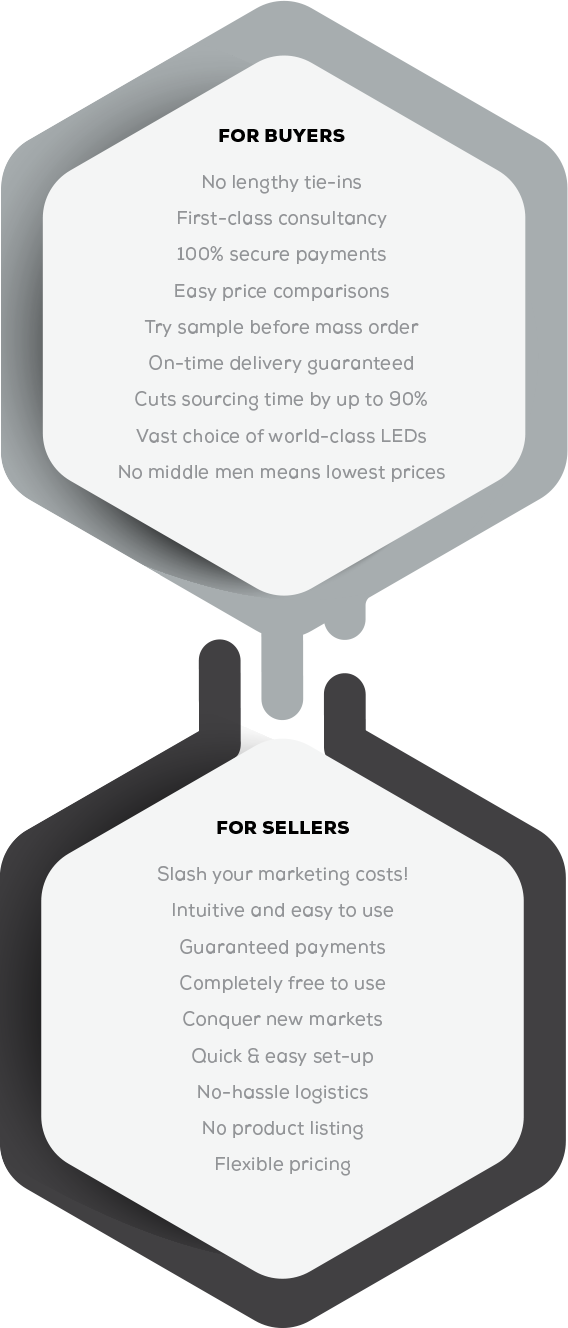
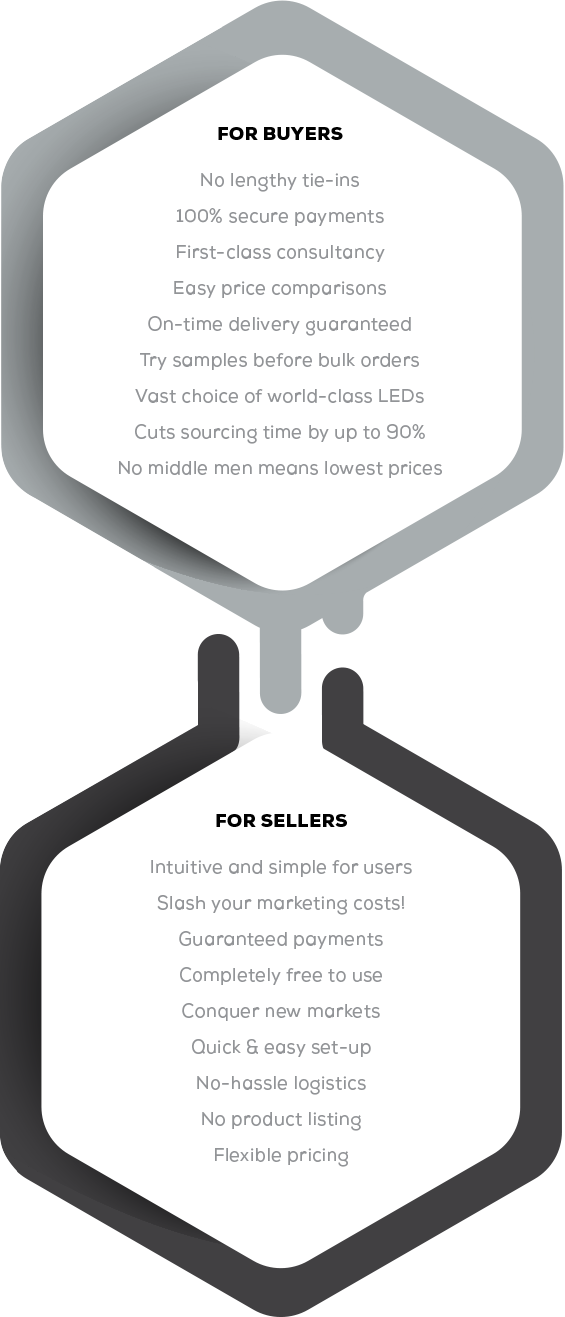
Changed About Us and Why choose bal on mobile and other tiny changes

diff --git a/public/js/app.js b/public/js/app.js
@@ -49729,27 +49729,15 @@ __webpack_require__.r(__webpack_exports__);
 
 /***/ }),
 
-/***/ "./resources/sass/privacy.scss":
-/*!*************************************!*\
-  !*** ./resources/sass/privacy.scss ***!
-  \*************************************/
-/*! no static exports found */
-/***/ (function(module, exports) {
-
-// removed by extract-text-webpack-plugin
-
-/***/ }),
-
 /***/ 0:
-/*!************************************************************************************************************************!*\
-  !*** multi ./resources/js/app.js ./resources/sass/app.scss ./resources/sass/privacy.scss ./resources/sass/mobile.scss ***!
-  \************************************************************************************************************************/
+/*!******************************************************************************************!*\
+  !*** multi ./resources/js/app.js ./resources/sass/app.scss ./resources/sass/mobile.scss ***!
+  \******************************************************************************************/
 /*! no static exports found */
 /***/ (function(module, exports, __webpack_require__) {
 
 __webpack_require__(/*! C:\xampp\htdocs\BAL_Landing\resources\js\app.js */"./resources/js/app.js");
 __webpack_require__(/*! C:\xampp\htdocs\BAL_Landing\resources\sass\app.scss */"./resources/sass/app.scss");
-__webpack_require__(/*! C:\xampp\htdocs\BAL_Landing\resources\sass\privacy.scss */"./resources/sass/privacy.scss");
 module.exports = __webpack_require__(/*! C:\xampp\htdocs\BAL_Landing\resources\sass\mobile.scss */"./resources/sass/mobile.scss");
 
 

diff --git a/resources/sass/mobile.scss b/resources/sass/mobile.scss
@@ -26,11 +26,11 @@ body{
 
 
 .section1{
-	height: 650px;
-	background: url("/images/mobile_bg.png");
+	height: 550px;
+    background: url('/images/mobile_bg.png');
     background-size: 100%;
     background-position-x: center;
-    background-position-y: -55px;
+    background-position-y: -100px;
     background-repeat: no-repeat;
 }
 
@@ -44,7 +44,6 @@ body{
 
 .section3{
 	height: 100%;
-	background: url("/images/mobile_about.png");
 	background-size: 106%;
     background-position-x: left;
     background-position-y: -105px;

diff --git a/public/css/mobile.css b/public/css/mobile.css
@@ -11119,11 +11119,11 @@ body {
 }
 
 .section1 {
-  height: 650px;
+  height: 550px;
   background: url("/images/mobile_bg.png");
   background-size: 100%;
   background-position-x: center;
-  background-position-y: -55px;
+  background-position-y: -100px;
   background-repeat: no-repeat;
 }
 
@@ -11137,7 +11137,6 @@ body {
 
 .section3 {
   height: 100%;
-  background: url("/images/mobile_about.png");
   background-size: 106%;
   background-position-x: left;
   background-position-y: -105px;

diff --git a/resources/views/mobile/index.blade.php b/resources/views/mobile/index.blade.php
@@ -37,36 +37,36 @@
 	</div>
 	<div class="section2 pt-5">
 		<div class="container text-center">
-			<a href="#trial" class="btn btn-dark">Start your free trial today</a>
+			<a href="https://lightfinder.buyanylight.com/buyer/register" class="btn btn-dark">Start your free trial today</a>
 		</div>
 		<div class="container pt-5">
 			<div class="row">
 				<div class="col" >
 					<div class=" text-center" style=" height: 100px;">
 						<img src="{{ asset('images/world-icon.png') }}" width="50%">
-						<h5 class="pt-3"><b>LightFinder</b></h5>
+						<p class="pt-3"><b>LightFinder</b></p>
 					</div>
 					<div class="text-center">
-						<a href="" class="btn btn-sm btn-outline-secondary">More</a>
+						<a href="#finder" class="btn btn-md btn-outline-secondary">More</a>
 					</div>
 				</div>
 				<div class="col">
 					<div class=" text-center" style=" height: 100px;">
 						<img src="{{ asset('images/home-icon.png') }}" width="50%">
-						<h5 class="pt-3"><b>My Home</b></h5>
+						<p class="pt-3"><b>My Home</b></p>
 					</div>
 					<div class="text-center">
-						<a href="" class="btn btn-sm btn-outline-secondary">More</a>
+						<a href="#home" class="btn btn-md btn-outline-secondary">More</a>
 					</div>
 					
 				</div>
 				<div class="col">
 					<div class=" text-center" style=" height: 100px;">
 						<img src="{{ asset('images/tower-icon.png') }}" width="50%">
-						<h5 class="pt-3"><b>My Tower</b></h5>
+						<p class="pt-3"><b>My Tower</b></p>
 					</div>
 					<div class="text-center">
-						<a href="" class="btn btn-sm btn-outline-secondary">More</a>
+						<a href="#tower" class="btn btn-md btn-outline-secondary">More</a>
 					</div>
 				</div>
 			</div>
@@ -78,7 +78,7 @@
 			</div>
 		</div>
 	</div>
-	<div class="section3 pt-5" id="about">
+	<div class="section3 pt-5 pb-5" id="about">
 		<!-- <img src="{{ asset('images/mobile_about.png')}}"> -->
 		<div class="container section3-contents">
 			<h3><b>ABOUT BUY ANY LIGHT</b></h3>
@@ -90,8 +90,8 @@
 				<li>higher profit margins</li>
 				<li>the world’s lowest prices for any light unit</li>
 				<li>greater efficiency of lighting procurement</li>
-				<li>superb online automation and functionality.</li>
-				<li>access to the actual manufacturers of top global brands </li>
+				<li>superb online automation and functionality</li>
+				<li>access to top global brand manufacturers. </li>
 			</ul>
 			<p>Whether you’re new to LED or a professional expert, we have a package to achieve all your objectives. </p>
 		</div>
@@ -99,9 +99,7 @@
 			Private homeowner?<br> Consultant?<br> Contractor?<br> Project owner?
 		</p>
 		<p class="text-center"><b>WE'VE GOT YOU COVERED!</b></p>
-	</div>
-	<div class="section4 pt-5 pb-5">
-		<div class="container pt-5 pb-5 section4-container">
+		<div class="container pb-5 section4-container">
 		
 			<p class="pt-3">
 				We save you time, money and add greater value. Your dedicated BAL expert will help you through your project every step of the way, ensuring that you get the best prices, designs and products anywhere in the world. BAL helps contractors and consultants to provide outstanding services for their clients, achieve project objectives and maximise profits. With BAL, it's always a win-win!
@@ -153,7 +151,7 @@
 				</p>
 			</div>
 		</div>
-		<div class="bg-black home pt-5 pb-5 text-white section6-container" id="#trial">
+		<div class="bg-black home pt-5 pb-5 text-white section6-container" id="home">
 			<div class="container">
 				<h4><b>My Home</b></h4>
 				<p class="pt-3">
@@ -226,7 +224,7 @@
                                 </div>
 			</div>
 		</div>
-		<div class="tower pt-5 pb-5 section6-container" id="#tower">
+		<div class="tower pt-5 pb-5 section6-container" id="tower">
 			<div class="container">
 				<h3><b>My Tower</b></h3>
 				<p class="pt-3">
